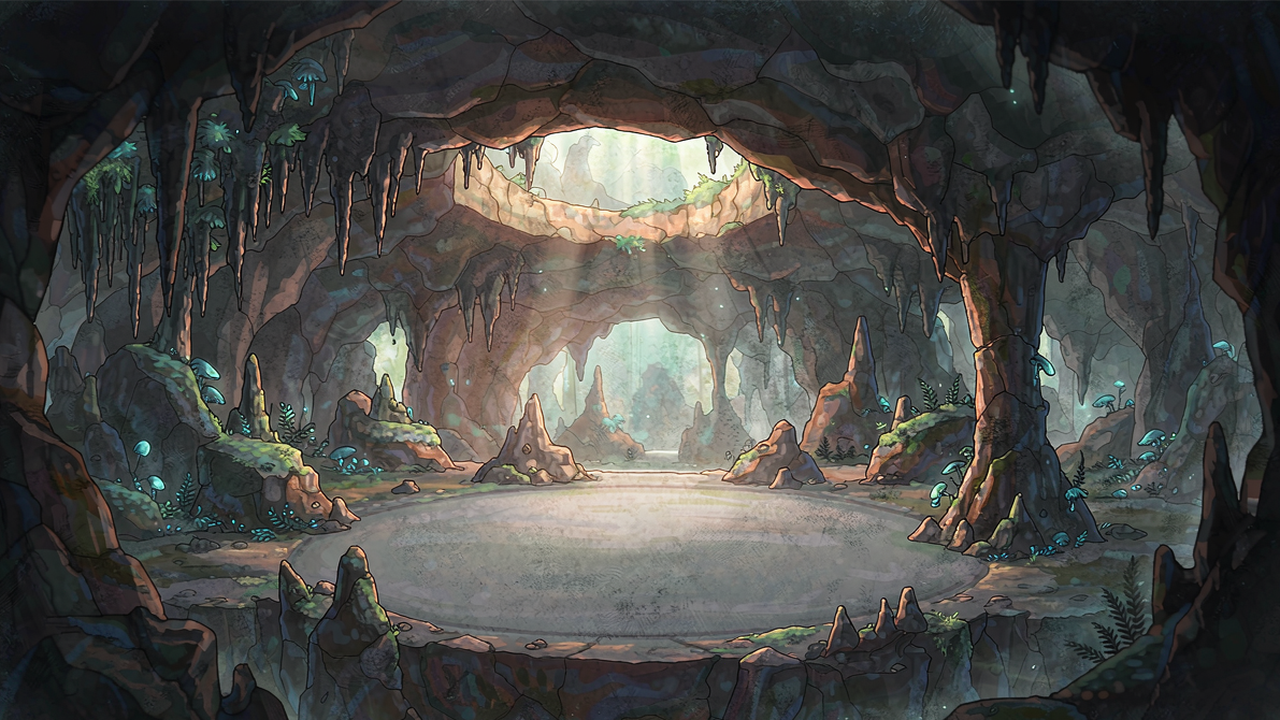
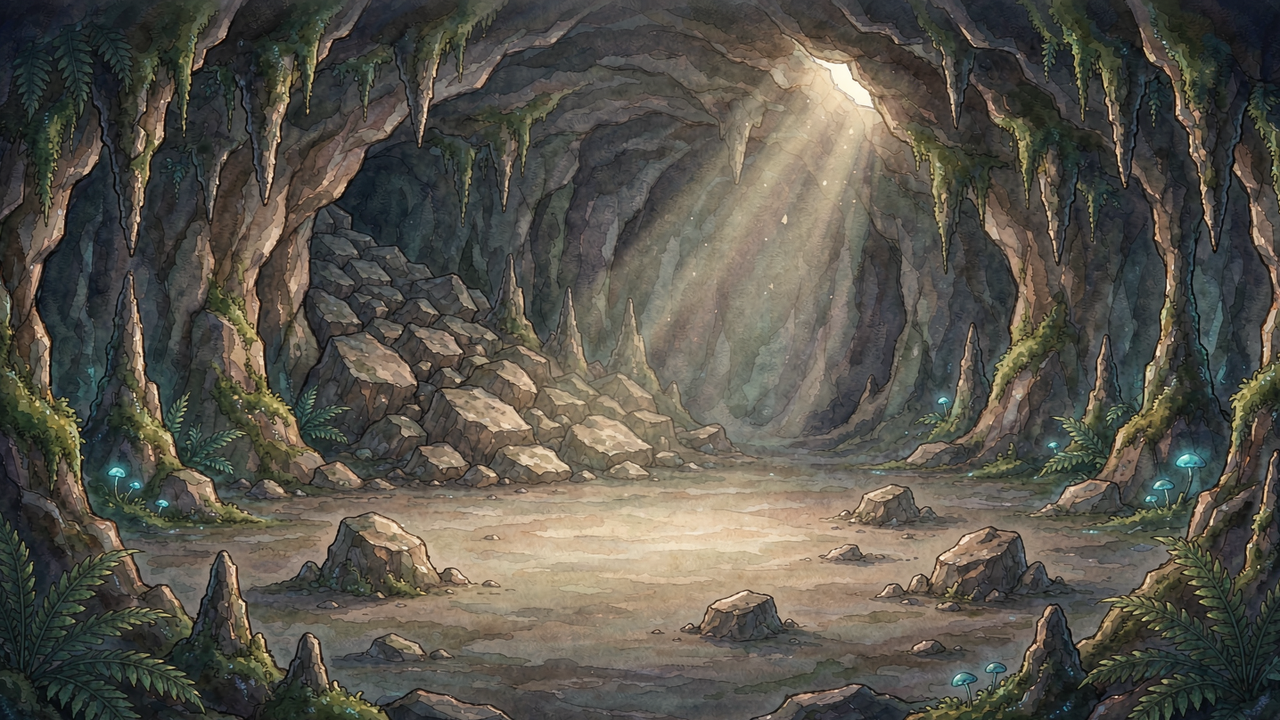
R468 洞穴背景重画：去掉圆形地台与多余洞口（v1→v4）
用户指出 v1 有两处硬伤：中央一块规则圆形浅灰地台（边界几乎闭合圆弧 = 人工痕迹），
以及 4 处透光开口（左上 / 正上露天裂缝 / 中左 / 正中远处通道），把洞室画成了大厅。

三次否决的过程：
- v1：圆形地台 + 4 处洞口（已否决）
- v2：圆形与多光源解决，但正中变成笔直通到黑暗的长廊、左右石笋镜像对称、整体过暗
- v3：明度合适、无圆形，但中景仍留两个暗色洞口、地面尖石笋成齿列
- v4 采用：左侧崩塌碎石自左上斜堆到地面把洞室封死，右侧只有岩壁本体、无暗色通道；
  地面是连续岩床（中灰偏亮 / 低对比度），只有三四块粗矮岩石随机散落；
  全画面仅洞顶偏右上一道窄裂隙光源

后期：水印落区 x≈1443~1536 / y≈818~864，裁底部 56px → 按 16:9 居中裁宽 1436×808
→ 等比缩回 1280×720（无变形）。成品已跑 --headless --import 补资源缓存。

README 记下三次否决原因与提示词写法经验：正面写「中央留空」会被画成几何地台，
写「向深处收拢」会被画成长廊；必须改成否定式 + 具体物件描述。

纯资源替换，无代码改动；回归 engine 5048 / reward 26 / bgm 39 / smoke 63-0 全通。

diff --git a/art_src/2026-10-31_洞穴背景/README.md b/art_src/2026-10-31_洞穴背景/README.md
@@ -17,13 +17,40 @@
 
 ## 文件
 
-- `raw/` —— 原图（1280×720，右下角带生成水印，不直接用）
-- `battle_bg_cave_owlbear_定稿1280x720.png` —— 定稿：裁掉底部 50px（水印落区 y≈675~715），
-  再按 16:9 裁左右到 1191×670，最后等比放大回 1280×720（无变形）
+- `raw/…T07-03-54.png` —— 第一版原图（1280×720，已定稿但被否决，见下）
+- `raw/…T07-52-50.png` —— **采用版**原图（1536×864，右下角带生成水印）
+- `battle_bg_cave_owlbear_定稿1280x720.png` —— 定稿：裁掉底部 56px（水印落区
+  x≈1443~1536 / y≈818~864），按 16:9 居中裁宽到 1436×808，等比缩回 1280×720（无变形）
+
+## 迭代记录（三次否决的原因，重画时逐条避开）
+
+| 版本 | 被否决的点 |
+|---|---|
+| v1（07-03-54） | 中央被画成一块**规则圆形浅灰地台**，边界几乎闭合圆弧 = 人工痕迹；画面有 **4 处**透光开口（左上 / 正上露天裂缝 / 中左 / 正中远处通道），把洞室画成了大厅 |
+| v2（07-51-50） | 圆形没了、光源只剩一个，但正中是一条**笔直通到黑暗里的长廊**（写成「向远处自然收拢」被理解成隧道）；左右石笋近似镜像对称；整体过暗，叠棋盘看不清 |
+| v3（07-52-23） | 明度合适、无圆形，但中景仍留两个暗色洞口；地面一排尖石笋像齿列，重复感强 |
+
+**v4 采用**：左侧一大片崩塌碎石自左上斜堆到地面，把洞室**物理封死**；右侧只有岩壁本体，
+没有暗色通道；地面是连续岩床（中灰偏亮、低对比度），只有三四块粗矮岩石随机散落；
+光源仅洞顶偏右上一道窄裂隙。
+
+## 提示词写法上的经验（比“景物压四周”更要紧）
+
+正面写「中央留空」会被画成**几何地台**；正面写「向深处收拢」会被画成**走廊**。要改成
+**否定式 + 具体物件**：
+
+- 不要写「一大片平坦空旷的岩石地面」→ 写「连续延伸的天然岩床，没有圆形轮廓 / 没有独立地台 /
+  没有闭合边缘线 / 没有台阶」，再用「自然过渡为碎石、苔痕和阴影」收边
+- 不要写「向画面深处自然收拢成暗部」→ 写「后壁在中景就被崩塌碎石堆封死，远景是岩壁本体，
+  没有走廊 / 没有隧道 / 没有通道开口」
+- 不要写「错落分布的石笋」→ 会画成齿列。写「只有三四块粗矮岩石，位置随机、彼此远离，
+  不要成排的尖细石笋」
+- 光源数量要写死：「全画面只有一个光源」，并逐个否定「没有天窗 / 没有露天裂口 / 没有多个透光孔」
 
 ## 构图约束（后续重画照这个来）
 
-- **景物压四周、中央留空**：洞壁 / 石钟乳 / 钟乳石柱都在边框区，中间一大片平岩空地给棋盘
-- 明度偏低、中央低对比度 —— 上面要压战场网格、手牌、按钮
-- 光源：洞顶破口的暖色光柱斜射，落点在中央，不抢视觉重心
+- **景物压四周、中央留空**：洞壁 / 钟乳石 / 碎石堆都在边框区，中间连续岩床给棋盘
+- 中央低对比度、明度中灰偏亮 —— 上面要压战场网格、手牌、按钮
+- 光源：洞顶偏右上一道窄裂隙的暖色光柱斜射左下，落点在中央，不抢视觉重心
 - 暗部点缀：青蓝色发光蘑菇 + 蕨类，避免纯黑一片
+- 生成图右下角固定带「AI生成 / WORKBUDDY」水印，落区随尺寸变化，裁前先放大右下角量一次
